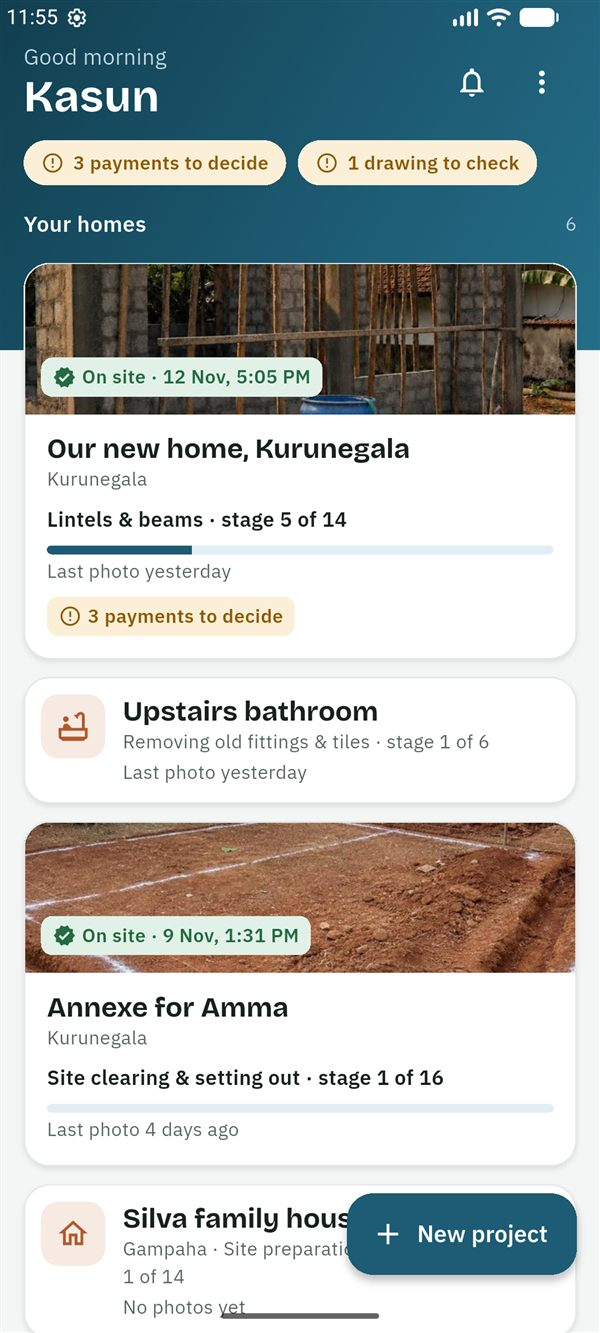
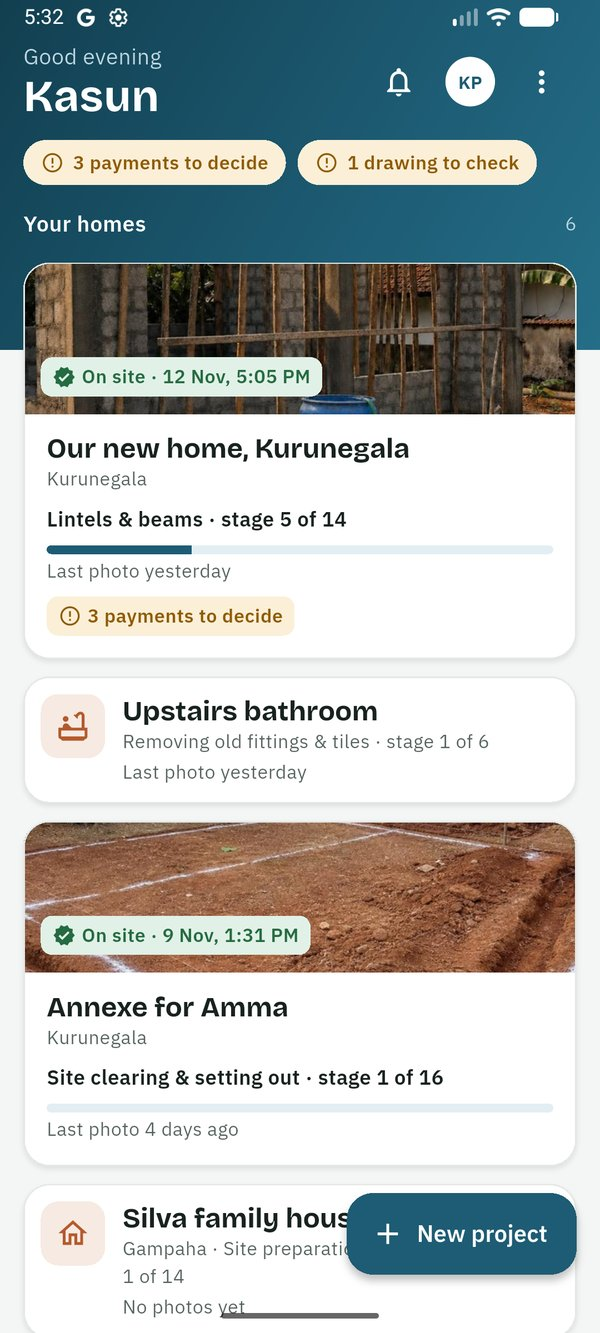
Publish site/ from adbbaad Guides: your photo on "About you", and where Settings opens now

diff --git a/guides/si/family-on-site.html b/guides/si/family-on-site.html
@@ -70,7 +70,7 @@
 <li>Google Play වෙතින් SiteProof ස්ථාපනය කරන්න. SiteProof පරීක්ෂා කරන කාලය තුළ, එය ස්ථාපනය කළ හැක්කේ ආරාධනා ලැබූ පරීක්ෂකයින්ට පමණි. දැනට එය Android දුරකථන සඳහා පමණි.</li>
 <li><strong>සිංහල</strong> හෝ <strong>English</strong> තෝරා, කෙටි හැඳින්වීම කියවන්න හෝ <strong>මඟ හරින්න</strong> ඔබන්න.</li>
 <li>ඇතුළු වන්න: ඔබේ ඊමේල් ලිපිනය ටයිප් කර <strong>කේතය යවන්න</strong> ඔබා, ඊමේල් එකේ ඇති ඉලක්කම් 6ක කේතය ටයිප් කර <strong>තහවුරු කරන්න</strong> ඔබන්න. නැතහොත් <strong>Google සමඟ ඉදිරියට යන්න</strong> ඔබන්න. මුරපදයක් නැත.</li>
-<li><strong>ඔබ ගැන</strong> යටතේ <strong>ඔබේ නම</strong> සහ <strong>ඔබ ජීවත් වන රට</strong> පුරවා <strong>ඉදිරියට</strong> ඔබන්න.</li>
+<li><strong>ඔබ ගැන</strong> යටතේ <strong>ඔබේ නම</strong> සහ <strong>ඔබ ජීවත් වන රට</strong> පුරවා <strong>ඉදිරියට</strong> ඔබන්න. කැමති නම්, පළමුව ඉහළින් ඇති <strong>ඡායාරූපයක් එක් කරන්න</strong> ඔබන්න: <strong>ඡායාරූපයක් ගන්න</strong> හෝ <strong>ඔබේ ඡායාරූපවලින් තෝරන්න</strong>, ඔබේ මුහුණ රවුම තුළට එන ලෙස එය ගෙනයන්න, විශාල කරන්න, ඉන්පසු <strong>මෙම ඡායාරූපය යොදන්න</strong> ඔබන්න. එය දකින්නේ ඔබේ ව්යාපෘතිවල සිටින අය පමණි; පසුව සැකසුම්වලින් එය වෙනස් කිරීමට හෝ ඉවත් කිරීමට හැක.</li>
 <li>මුල් තිරයේ ⋮ → <strong>කේතයකින් එක්වන්න</strong> ඔබන්න (තවම ව්යාපෘති නැත්නම් <strong>කේතයකින් එක්වන්න</strong> බොත්තම). කේතය ටයිප් කර <strong>කේතය පරීක්ෂා කරන්න</strong> ඔබන්න. ඔබට <strong>ස්ථානයේ සිටින පවුලේ සාමාජිකයා</strong> ලෙස ආරාධනා කළේ කවුදැයි යෙදුම පෙන්වයි. <strong>මෙම ව්යාපෘතියට එක්වන්න</strong> ඔබන්න.</li>
 </ol>
 <p>ව්යාපෘතිය ඔබේ මුල් තිරයේ <strong>ස්ථානයේ</strong> ලේබලය සමඟ ඇත; ඔබට වෙනත් භූමිකා වලින් ව්යාපෘති ද ඇත්නම් එය <strong>ඔබ අනුගමනය කරන</strong> යටතේ ඇත. එය <strong>අද</strong> ටැබයෙන් විවෘත වේ.</p>
@@ -183,7 +183,7 @@
 <li>හිමිකරු මෙන්ම, ඔබට අයවැය, සියලු බිල්පත් සහ සියලු ගෙවීම් ඉල්ලීම් පෙනේ. කොන්ත්රාත්කරුට පෙනෙන්නේ ඔහුගේම බිල්පත් සහ ඉල්ලීම් පමණි, කිසිවිටෙක අයවැය නොවේ. බලන්නන්ට කිසිවිටෙක මුදල් නොපෙනේ.</li>
 <li>හිමිකරුගේ සතියේ සාරාංශය සහ එක් එක් ගෙවීම් ඉල්ලීමේ පරීක්ෂාව ("තීරණය කිරීමට පෙර") හිමිකරුවන්ට පමණි.</li>
 <li>ඡායාරූප, ස්ථානය, අදියර, අදහස් සහ ලිපිගොනු කණ්ඩායමේ සැමට පෙනේ.</li>
-<li>ව්යාපෘතියේ අයට ඔබේ නම සහ භූමිකාව, සහ ඔබ දුරකථන අංකයෙන් ඇතුළු වූවා නම් එම අංකය පෙනේ, එවිට ඔවුන්ට ඔබට කතා කිරීමට හෝ WhatsApp පණිවිඩයක් යැවීමට හැක.</li>
+<li>ව්යාපෘතියේ අයට ඔබේ නම සහ භූමිකාව, ඔබ ඡායාරූපයක් එක් කළා නම් එය, සහ ඔබ දුරකථන අංකයෙන් ඇතුළු වූවා නම් එම අංකය පෙනේ, එවිට ඔවුන්ට ඔබට කතා කිරීමට හෝ WhatsApp පණිවිඩයක් යැවීමට හැක.</li>
 </ul>
 
 <h3>ඡායාරූප ලාංඡන</h3>
@@ -198,7 +198,7 @@
 <p>ඔබට SiteProof නොමිලේ; ගෙවන්නේ හිමිකරු පමණි. SiteProof පරීක්ෂා කරන කාලය තුළ, සෑම ව්යාපෘතියකටම Plus නොමිලේ. Plus සඳහා ගෙවීම ආරම්භ වූ පසු, මෙම මාර්ගෝපදේශයේ (Plus) ලෙස සලකුණු කළ දේවලට හිමිකරුගේ Plus සැලැස්ම අවශ්යයි; නොමිලේ සැලැස්මේදී බිල්පත් සහ ගෙවීම් ඉල්ලීම් වලට ද Plus අවශ්යයි.</p>
 
 <h3>සැකසුම්</h3>
-<p>භාෂාව, <strong>දැනුම්දීම් සැකසුම්</strong>, <strong>ඇඟිලි සලකුණ හෝ PIN මගින් අගුළු දමන්න</strong>, <strong>උදව්</strong>, <strong>මගේ දත්ත බාගන්න</strong> සහ <strong>මගේ ගිණුම මකන්න</strong> සඳහා මුල් තිරයේ ⋮ → <strong>සැකසුම්</strong> ඔබන්න.</p>
+<p>ඔබේ ඡායාරූපය සහ නම, භාෂාව, <strong>දැනුම්දීම් සැකසුම්</strong>, <strong>ඇඟිලි සලකුණ හෝ PIN මගින් අගුළු දමන්න</strong>, <strong>උදව්</strong>, <strong>මගේ දත්ත බාගන්න</strong> සහ <strong>මගේ ගිණුම මකන්න</strong> සඳහා මුල් තිරයේ ඉහළින් ඇති ඔබේ ඡායාරූපය හෝ මුල් අකුරු ඔබන්න (නැතහොත් ⋮ → <strong>සැකසුම්</strong>).</p>
 </div></main>
 <footer><div class="wrap">
   <span>© 2026 SiteProof, ශ්රී ලංකාව</span>

diff --git a/guides/si/designer.html b/guides/si/designer.html
@@ -69,7 +69,7 @@
 <li>Google Play වෙතින් SiteProof ස්ථාපනය කරන්න. SiteProof පරීක්ෂා කරන කාලය තුළ, එය ස්ථාපනය කළ හැක්කේ ආරාධනා ලැබූ පරීක්ෂකයින්ට පමණි. දැනට එය Android දුරකථන සඳහා පමණි.</li>
 <li><strong>සිංහල</strong> හෝ <strong>English</strong> තෝරා, කෙටි හැඳින්වීම කියවන්න හෝ <strong>මඟ හරින්න</strong> ඔබන්න.</li>
 <li>ඇතුළු වන්න: ඔබේ ඊමේල් ලිපිනය ටයිප් කර <strong>කේතය යවන්න</strong> ඔබා, ඊමේල් එකේ ඇති ඉලක්කම් 6ක කේතය ටයිප් කර <strong>තහවුරු කරන්න</strong> ඔබන්න. නැතහොත් <strong>Google සමඟ ඉදිරියට යන්න</strong> ඔබන්න. මුරපදයක් නැත.</li>
-<li><strong>ඔබ ගැන</strong> යටතේ <strong>ඔබේ නම</strong> සහ <strong>ඔබ ජීවත් වන රට</strong> පුරවා <strong>ඉදිරියට</strong> ඔබන්න.</li>
+<li><strong>ඔබ ගැන</strong> යටතේ <strong>ඔබේ නම</strong> සහ <strong>ඔබ ජීවත් වන රට</strong> පුරවා <strong>ඉදිරියට</strong> ඔබන්න. කැමති නම්, පළමුව ඉහළින් ඇති <strong>ඡායාරූපයක් එක් කරන්න</strong> ඔබන්න: <strong>ඡායාරූපයක් ගන්න</strong> හෝ <strong>ඔබේ ඡායාරූපවලින් තෝරන්න</strong>, ඔබේ මුහුණ රවුම තුළට එන ලෙස එය ගෙනයන්න, විශාල කරන්න, ඉන්පසු <strong>මෙම ඡායාරූපය යොදන්න</strong> ඔබන්න. එය දකින්නේ ඔබේ ව්යාපෘතිවල සිටින අය පමණි; පසුව සැකසුම්වලින් එය වෙනස් කිරීමට හෝ ඉවත් කිරීමට හැක.</li>
 <li>මුල් තිරයේ ⋮ → <strong>කේතයකින් එක්වන්න</strong> ඔබන්න. කේතය ටයිප් කර <strong>කේතය පරීක්ෂා කරන්න</strong> ඔබන්න. ඔබට <strong>නිර්මාණකරු</strong> ලෙස ආරාධනා කළේ කවුදැයි යෙදුම පෙන්වයි. <strong>මෙම ව්යාපෘතියට එක්වන්න</strong> ඔබන්න.</li>
 </ol>
 <p>ඔබේ ව්යාපෘති මුල් තිරයේ <strong>නිර්මාණකරු</strong> ලේබලය සමඟ ඇත; ඔබට වෙනත් භූමිකා වලින් ව්යාපෘති ද ඇත්නම් ඒවා <strong>ඔබේ වැඩ</strong> යටතේ ඇත. ව්යාපෘතියක් <strong>සාරාංශය</strong> ටැබයෙන් විවෘත වන අතර, එහි <strong>ඔබේ භූමිකාව</strong>, අදියර, කණ්ඩායම සහ මේ සතියේ යාවත්කාලීන පෙන්වයි. අයවැය බැලීමට ඉඩ නැත්නම්, එහි මුදල් නොපෙන්වයි.</p>
@@ -133,7 +133,7 @@
 <li>හිමිකරු <strong>නිර්මාණකරුට අයවැය පෙනේ</strong> සක්රිය කළහොත් පමණක් ඔබට අයවැය, බිල්පත් සහ ගෙවීම් කාලසටහන පෙනේ. නැතහොත් මුදල් ටැබයේ වැඩේ වෙනස්කම් පෙන්වන අතර, අනෙක් දේ මුදල් කළමනාකරණය කරන අයට පමණක් බව කියයි.</li>
 <li>ඔබට කිසිවිටෙක ගෙවීම් ඉල්ලීම් හෝ හිමිකරුගේ සතියේ සාරාංශය නොපෙනේ.</li>
 <li>ඔබේ සැලසුම්, ඔබේ අදියර පරීක්ෂා සහ ඔබේ යාවත්කාලීන කණ්ඩායමේ සැමට පෙනේ. බලන්නන්ට සැලසුම් පෙනේ, නමුත් ගිවිසුම නොපෙනේ.</li>
-<li>ව්යාපෘතියේ අයට ඔබේ නම සහ භූමිකාව, සහ ඔබ දුරකථන අංකයෙන් ඇතුළු වූවා නම් එම අංකය පෙනේ.</li>
+<li>ව්යාපෘතියේ අයට ඔබේ නම සහ භූමිකාව, ඔබ ඡායාරූපයක් එක් කළා නම් එය, සහ ඔබ දුරකථන අංකයෙන් ඇතුළු වූවා නම් එම අංකය පෙනේ.</li>
 </ul>
 
 <h3>ඡායාරූප ලාංඡන</h3>

diff --git a/guides/si/owner.html b/guides/si/owner.html
@@ -70,7 +70,7 @@
 <li><strong>සිංහල</strong> හෝ <strong>English</strong> තෝරන්න. පසුව සැකසුම් තුළ එය වෙනස් කළ හැක.</li>
 <li>කෙටි හැඳින්වීම කියවන්න, නැතහොත් <strong>මඟ හරින්න</strong> ඔබන්න.</li>
 <li>ඔබේ ඊමේල් ලිපිනය ටයිප් කර <strong>කේතය යවන්න</strong> ඔබන්න. ඊමේල් එකේ ඇති ඉලක්කම් 6ක කේතය ටයිප් කර <strong>තහවුරු කරන්න</strong> ඔබන්න. නැතහොත් <strong>Google සමඟ ඉදිරියට යන්න</strong> ඔබන්න. මුරපදයක් නැත.</li>
-<li><strong>ඔබ ගැන</strong> යටතේ <strong>ඔබේ නම</strong> සහ <strong>ඔබ ජීවත් වන රට</strong> පුරවා <strong>ඉදිරියට</strong> ඔබන්න.</li>
+<li><strong>ඔබ ගැන</strong> යටතේ <strong>ඔබේ නම</strong> සහ <strong>ඔබ ජීවත් වන රට</strong> පුරවා <strong>ඉදිරියට</strong> ඔබන්න. කැමති නම්, පළමුව ඉහළින් ඇති <strong>ඡායාරූපයක් එක් කරන්න</strong> ඔබන්න: <strong>ඡායාරූපයක් ගන්න</strong> හෝ <strong>ඔබේ ඡායාරූපවලින් තෝරන්න</strong>, ඔබේ මුහුණ රවුම තුළට එන ලෙස එය ගෙනයන්න, විශාල කරන්න, ඉන්පසු <strong>මෙම ඡායාරූපය යොදන්න</strong> ඔබන්න. එය දකින්නේ ඔබේ ව්යාපෘතිවල සිටින අය පමණි; පසුව සැකසුම්වලින් එය වෙනස් කිරීමට හෝ ඉවත් කිරීමට හැක.</li>
 </ol>
 
 <h3>ඔබේ ව්යාපෘතිය අරඹන්න</h3>
@@ -220,7 +220,7 @@
 
 <h2 id="settings">සැකසුම් සහ වාර්තා</h2>
 <ul>
-<li><strong>සැකසුම්:</strong> මුල් තිරයේ ⋮ → <strong>සැකසුම්</strong> ඔබන්න. එහි ඔබේ නම සහ රට, භාෂාව, <strong>දැනුම්දීම් සැකසුම්</strong>, <strong>ආරක්ෂාව</strong> (<strong>ඇඟිලි සලකුණ හෝ PIN මගින් අගුළු දමන්න</strong>), ඔබේ <strong>සැලැස්ම</strong>, <strong>උදව්</strong>, <strong>මගේ දත්ත බාගන්න</strong>, <strong>ඉවත් වන්න</strong> සහ <strong>මගේ ගිණුම මකන්න</strong> ඇත.</li>
+<li><strong>සැකසුම්:</strong> මුල් තිරයේ ඉහළින් ඇති ඔබේ ඡායාරූපය හෝ මුල් අකුරු ඔබන්න (නැතහොත් ⋮ → <strong>සැකසුම්</strong>). එහි ඔබේ ඡායාරූපය, නම සහ රට (වෙනස් කිරීමට <strong>සංස්කරණය</strong> ඔබන්න), භාෂාව, <strong>දැනුම්දීම් සැකසුම්</strong>, <strong>ආරක්ෂාව</strong> (<strong>ඇඟිලි සලකුණ හෝ PIN මගින් අගුළු දමන්න</strong>), ඔබේ <strong>සැලැස්ම</strong>, <strong>උදව්</strong>, <strong>මගේ දත්ත බාගන්න</strong>, <strong>ඉවත් වන්න</strong> සහ <strong>මගේ ගිණුම මකන්න</strong> ඇත.</li>
 <li><strong>දැනුම්දීම්:</strong> නව ඡායාරූප සහ බිල්පත් <strong>සිදුවන විටම</strong> ලැබේ, නැතහොත් <strong>දිනකට වරක්, වේලාව</strong> තෝරා ඔබ කැමති වේලාවකට දිනකට වරක් ලැබේ. ගෙවීම් ඉල්ලීම්, තීරණ සහ පිළිතුරු සැමවිටම වහාම ලැබේ. ඔබට මඟ හැරුණු ඒවා ද ඇතුළුව, සියලු දැනුම්දීම් සීනුව තුළ ඇත.</li>
 <li><strong>වාර්තා</strong> (Plus): ව්යාපෘතියේ ඉහළින් ඇති PDF අයිකනය (<strong>වාර්තාවක් සාදන්න</strong>) ඔබා, මේ මාසය, පසුගිය මාසය හෝ <strong>එක් අදියරක්, බැංකු ණයක් සඳහා</strong> තෝරන්න. WhatsApp හෝ ඊමේල් හරහා යැවීමට, Drive හි සුරැකීමට හෝ මුද්රණය කිරීමට බෙදාගැනීමේ තිරය විවෘත වේ.</li>
 </ul>

diff --git a/guides/si/contractor.html b/guides/si/contractor.html
@@ -73,7 +73,7 @@
 <li>Google Play වෙතින් SiteProof ස්ථාපනය කරන්න. SiteProof පරීක්ෂා කරන කාලය තුළ, එය ස්ථාපනය කළ හැක්කේ ආරාධනා ලැබූ පරීක්ෂකයින්ට පමණි. දැනට එය Android දුරකථන සඳහා පමණි.</li>
 <li><strong>සිංහල</strong> හෝ <strong>English</strong> තෝරා, කෙටි හැඳින්වීම කියවන්න හෝ <strong>මඟ හරින්න</strong> ඔබන්න.</li>
 <li>ඇතුළු වන්න: ඔබේ ඊමේල් ලිපිනය ටයිප් කර <strong>කේතය යවන්න</strong> ඔබා, ඊමේල් එකේ ඇති ඉලක්කම් 6ක කේතය ටයිප් කර <strong>තහවුරු කරන්න</strong> ඔබන්න. නැතහොත් <strong>Google සමඟ ඉදිරියට යන්න</strong> ඔබන්න. මුරපදයක් නැත.</li>
-<li><strong>ඔබ ගැන</strong> යටතේ <strong>ඔබේ නම</strong> සහ <strong>ඔබ ජීවත් වන රට</strong> පුරවා <strong>ඉදිරියට</strong> ඔබන්න.</li>
+<li><strong>ඔබ ගැන</strong> යටතේ <strong>ඔබේ නම</strong> සහ <strong>ඔබ ජීවත් වන රට</strong> පුරවා <strong>ඉදිරියට</strong> ඔබන්න. කැමති නම්, පළමුව ඉහළින් ඇති <strong>ඡායාරූපයක් එක් කරන්න</strong> ඔබන්න: <strong>ඡායාරූපයක් ගන්න</strong> හෝ <strong>ඔබේ ඡායාරූපවලින් තෝරන්න</strong>, ඔබේ මුහුණ රවුම තුළට එන ලෙස එය ගෙනයන්න, විශාල කරන්න, ඉන්පසු <strong>මෙම ඡායාරූපය යොදන්න</strong> ඔබන්න. එය දකින්නේ ඔබේ ව්යාපෘතිවල සිටින අය පමණි; පසුව සැකසුම්වලින් එය වෙනස් කිරීමට හෝ ඉවත් කිරීමට හැක.</li>
 <li>මුල් තිරයේ ⋮ → <strong>කේතයකින් එක්වන්න</strong> ඔබන්න. කේතය ටයිප් කර <strong>කේතය පරීක්ෂා කරන්න</strong> ඔබන්න. ඔබට <strong>කොන්ත්රාත්කරු</strong> ලෙස ආරාධනා කළේ කවුදැයි යෙදුම පෙන්වයි. <strong>මෙම ව්යාපෘතියට එක්වන්න</strong> ඔබන්න.</li>
 </ol>
 <p>ඔබේ ව්යාපෘති මුල් තිරයේ <strong>කොන්ත්රාත්කරු</strong> ලේබලය සමඟ ඇත; ඔබට වෙනත් භූමිකා වලින් ව්යාපෘති ද ඇත්නම් ඒවා <strong>ඔබේ වැඩ</strong> යටතේ ඇත. ඔබ වෙනුවෙන් යමක් රැඳී ඇති ව්යාපෘති මුලින්ම පෙන්වන අතර, සෑම කාඩ්පතකම ඊළඟ එකඟ වූ ගෙවීමේ නම පෙන්වයි. ව්යාපෘතියක් <strong>අද</strong> ටැබයෙන් විවෘත වේ.</p>
@@ -163,7 +163,7 @@
 <li>හිමිකරුට ඔබේ බිල්පත් (අයවැයට නැවත ගණන් නොගෙන), ඔබේ ඉල්ලීම් සහ ඔබේ ඡායාරූප ඒවායේ ලාංඡන සමඟ පෙනේ.</li>
 <li>එක් එක් ගෙවීම් ඉල්ලීමේ හිමිකරුගේ පරීක්ෂාව ("තීරණය කිරීමට පෙර") සහ සතියේ සාරාංශය හිමිකරුවන්ට පමණි.</li>
 <li>ඡායාරූප, ස්ථානය, අදියර, අදියර පරීක්ෂා, අදහස් සහ ලිපිගොනු කණ්ඩායමේ සැමට පෙනේ.</li>
-<li>ව්යාපෘතියේ අයට ඔබේ නම සහ භූමිකාව, සහ ඔබ දුරකථන අංකයෙන් ඇතුළු වූවා නම් එම අංකය පෙනේ.</li>
+<li>ව්යාපෘතියේ අයට ඔබේ නම සහ භූමිකාව, ඔබ ඡායාරූපයක් එක් කළා නම් එය, සහ ඔබ දුරකථන අංකයෙන් ඇතුළු වූවා නම් එම අංකය පෙනේ.</li>
 </ul>
 
 <h3>ඡායාරූප ලාංඡන</h3>

diff --git a/guides/si/viewer.html b/guides/si/viewer.html
@@ -53,7 +53,7 @@
 <li>Google Play වෙතින් SiteProof ස්ථාපනය කරන්න. SiteProof පරීක්ෂා කරන කාලය තුළ, එය ස්ථාපනය කළ හැක්කේ ආරාධනා ලැබූ පරීක්ෂකයින්ට පමණි. දැනට එය Android දුරකථන සඳහා පමණි.</li>
 <li><strong>සිංහල</strong> හෝ <strong>English</strong> තෝරා, කෙටි හැඳින්වීම කියවන්න හෝ <strong>මඟ හරින්න</strong> ඔබන්න.</li>
 <li>ඇතුළු වන්න: ඔබේ ඊමේල් ලිපිනය ටයිප් කර <strong>කේතය යවන්න</strong> ඔබා, ඊමේල් එකේ ඇති ඉලක්කම් 6ක කේතය ටයිප් කර <strong>තහවුරු කරන්න</strong> ඔබන්න. නැතහොත් <strong>Google සමඟ ඉදිරියට යන්න</strong> ඔබන්න. මුරපදයක් නැත.</li>
-<li><strong>ඔබ ගැන</strong> යටතේ <strong>ඔබේ නම</strong> සහ <strong>ඔබ ජීවත් වන රට</strong> පුරවා <strong>ඉදිරියට</strong> ඔබන්න.</li>
+<li><strong>ඔබ ගැන</strong> යටතේ <strong>ඔබේ නම</strong> සහ <strong>ඔබ ජීවත් වන රට</strong> පුරවා <strong>ඉදිරියට</strong> ඔබන්න. කැමති නම්, පළමුව ඉහළින් ඇති <strong>ඡායාරූපයක් එක් කරන්න</strong> ඔබන්න: <strong>ඡායාරූපයක් ගන්න</strong> හෝ <strong>ඔබේ ඡායාරූපවලින් තෝරන්න</strong>, ඔබේ මුහුණ රවුම තුළට එන ලෙස එය ගෙනයන්න, විශාල කරන්න, ඉන්පසු <strong>මෙම ඡායාරූපය යොදන්න</strong> ඔබන්න. එය දකින්නේ ඔබේ ව්යාපෘතිවල සිටින අය පමණි; පසුව සැකසුම්වලින් එය වෙනස් කිරීමට හෝ ඉවත් කිරීමට හැක.</li>
 <li>මුල් තිරයේ <strong>කේතයකින් එක්වන්න</strong> බොත්තම ඔබන්න (නැතහොත් ⋮ → <strong>කේතයකින් එක්වන්න</strong>). කේතය ටයිප් කර <strong>කේතය පරීක්ෂා කරන්න</strong> ඔබන්න. ඔබට <strong>බලන්නා</strong> ලෙස ආරාධනා කළේ කවුදැයි යෙදුම පෙන්වයි. <strong>මෙම ව්යාපෘතියට එක්වන්න</strong> ඔබන්න.</li>
 </ol>
 <p>ව්යාපෘතිය ඔබේ මුල් තිරයේ <strong>බලන්නා</strong> ලේබලය සමඟ ඇත; ඔබට වෙනත් භූමිකා වලින් ව්යාපෘති ද ඇත්නම් එය <strong>ඔබ අනුගමනය කරන</strong> යටතේ ඇත. එය <strong>සාරාංශය</strong> ටැබයෙන් විවෘත වේ.</p>
@@ -95,7 +95,7 @@
 <ul>
 <li>ඔබට කිසිවිටෙක මුදල් නොපෙනේ. අයවැය, බිල්පත් සහ ගෙවීම් හිමිකරුට, සම-හිමිකරුවන්ට සහ ස්ථානයේ සිටින පවුලේ සාමාජිකයාට පමණි.</li>
 <li>ඡායාරූප, ස්ථානය, අදියර සහ අදියර පරීක්ෂා, අදහස් සහ ලිපිගොනු ඔබ ඇතුළු කණ්ඩායමේ සැමට පෙනේ. බලන්නන්ට ගිවිසුම නොපෙනේ.</li>
-<li>ව්යාපෘතියේ අයට ඔබේ නම සහ භූමිකාව, සහ ඔබ දුරකථන අංකයෙන් ඇතුළු වූවා නම් එම අංකය පෙනේ.</li>
+<li>ව්යාපෘතියේ අයට ඔබේ නම සහ භූමිකාව, ඔබ ඡායාරූපයක් එක් කළා නම් එය, සහ ඔබ දුරකථන අංකයෙන් ඇතුළු වූවා නම් එම අංකය පෙනේ.</li>
 <li>හිමිකරුට ඔබව හිමිකරු කළ හැක (උදාහරණයක් ලෙස දෙමාපියෙකු වෙනුවෙන් ව්යාපෘතිය භාර ගැනීමට). ඔබට වහාම දැනුම් දෙයි.</li>
 </ul>
 

diff --git a/privacy.html b/privacy.html
@@ -16,7 +16,7 @@
 </div></header>
 <main><div class="wrap">
 <h1>Privacy policy</h1>
-<p class="meta">Effective 10 November 2026 · Last updated 12 November 2026</p>
+<p class="meta">Effective 10 November 2026 · Last updated 13 November 2026</p>
 
 <h2>Who we are</h2>
 <p>SiteProof, a business being registered in Sri Lanka, runs the SiteProof app and is responsible for the personal data described here ("we", "us"). SiteProof helps families who are building a house in Sri Lanka keep a verified record of the work: site photos, bills, payment approvals and live checks. Often the owner lives abroad and a family member or contractor is on site.</p>
@@ -27,7 +27,7 @@
 <p>We collect what you type or photograph in the app, plus a few details from your phone that make site photos trustworthy.</p>
 <div class="table-wrap"><table>
 <tr><th>What</th><th>Details</th><th>When</th></tr>
-<tr><td>Account</td><td>Name, phone number or email address, the country you live in, language, time zone</td><td>When you sign up or change your settings</td></tr>
+<tr><td>Account</td><td>Name, phone number or email address, the country you live in, language, time zone, and a profile photo of yourself if you add one</td><td>When you sign up or change your settings</td></tr>
 <tr><td>Notification settings</td><td>Instant notifications or a daily summary, and its hour</td><td>When you choose them</td></tr>
 <tr><td>Projects</td><td>Project name, district, an address note, the site location pin and its radius, floors and floor area, budgets, stages</td><td>When the owner or the family member on site sets them</td></tr>
 <tr><td>Site photos</td><td>The photo; the time on your phone and the time our server received it; GPS position and its accuracy; whether the phone reported a simulated location; distance from the site pin; whether it was taken offline; a fingerprint of the file to spot repeats</td><td>When you post a site photo</td></tr>
@@ -63,7 +63,7 @@
 <p>Only the members of a project see what is in it. Within a project:</p>
 <ul>
 <li>Everyone in the team sees the photos, the site location, stages, stage checks, comments and documents, and hears and reads the voice notes.</li>
-<li>Everyone in the team sees each other's name and role. If you signed in with your phone number, the people in your projects see that number too, so they can call you or message you on WhatsApp from the app.</li>
+<li>Everyone in the team sees each other's name and role, and the profile photo of those who added one. Nobody outside your projects sees your photo, and someone who leaves a project no longer does. If you signed in with your phone number, the people in your projects see that number too, so they can call you or message you on WhatsApp from the app.</li>
 <li>Budgets are hidden from contractors and viewers; designers see them only if the owner allows it.</li>
 <li>The payment schedule from the contract is seen by the people who see the budget, and by the contractor.</li>
 <li>Changes to the work, with their cost, are seen by everyone in the team except viewers.</li>
@@ -89,6 +89,7 @@
 <div class="table-wrap"><table>
 <tr><th>Data</th><th>How long we keep it</th></tr>
 <tr><td>Your account and settings</td><td>Until you delete your account</td></tr>
+<tr><td>Your profile photo</td><td>Until you change or remove it, or delete your account: the old photo is deleted then</td></tr>
 <tr><td>A project's photos, bills, payments, changes to the work, comments and documents</td><td>As long as the project exists. A project only you are in is deleted with your account</td></tr>
 <tr><td>What you added to other people's projects</td><td>Kept after you delete your account, shown as "Former member", because it is the other family's record of their house</td></tr>
 <tr><td>Voice notes, and what was said in them and its translation</td><td>As long as the project exists, like the photos</td></tr>

diff --git a/guides/family-on-site.html b/guides/family-on-site.html
@@ -66,7 +66,7 @@
 <li>Install SiteProof from Google Play. While SiteProof is being tested, only invited testers can install it. It is for Android phones for now.</li>
 <li>Choose <strong>සිංහල</strong> or <strong>English</strong>, then read the short welcome or tap <strong>Skip</strong>.</li>
 <li>Sign in: type your email address and tap <strong>Send code</strong>, then type the 6-digit code from the email and tap <strong>Verify</strong>. Or tap <strong>Continue with Google</strong>. There is no password.</li>
-<li>Under <strong>About you</strong>, fill in <strong>Your name</strong> and the <strong>Country you live in</strong>, then tap <strong>Continue</strong>.</li>
+<li>Under <strong>About you</strong>, fill in <strong>Your name</strong> and the <strong>Country you live in</strong>, then tap <strong>Continue</strong>. If you like, first tap <strong>Add a photo</strong> at the top: <strong>Take a photo</strong> or <strong>Choose from your photos</strong>, move and zoom it so your face is in the circle, and tap <strong>Use photo</strong>. Only the people in your projects see it, and you can change or remove it later in Settings.</li>
 <li>On the home screen, tap ⋮ → <strong>Join with a code</strong> (or the <strong>Join with a code</strong> button when you have no projects yet). Type the code and tap <strong>Check the code</strong>. The app shows who invited you, as <strong>Family member on site</strong>. Tap <strong>Join this project</strong>.</li>
 </ol>
 <p>The project is on your home screen with an <strong>On site</strong> chip, under <strong>Following</strong> if you also have projects in other roles. It opens on <strong>Today</strong>.</p>
@@ -179,7 +179,7 @@
 <li>You see the budget, every bill and every payment request, like the owner. The contractor sees only their own bills and requests, never the budget. Viewers never see money.</li>
 <li>The owner's weekly summary and the check on each payment request ("Before you decide") are for the owners only.</li>
 <li>Everyone in the team sees the photos, the site location, the stages, comments and documents.</li>
-<li>People in the project see your name and role, and your phone number if you signed in with one, so they can call you or message you on WhatsApp.</li>
+<li>People in the project see your name and role, your photo if you added one, and your phone number if you signed in with one, so they can call you or message you on WhatsApp.</li>
 </ul>
 
 <h3>The photo badges</h3>
@@ -194,7 +194,7 @@
 <p>You use SiteProof free; only the owner pays. While SiteProof is being tested, every project has Plus free. Features marked (Plus) in this guide need the owner's Plus plan once plans start; on Free, bills and payment requests need Plus too.</p>
 
 <h3>Settings</h3>
-<p>On the home screen, tap ⋮ → <strong>Settings</strong> for the language, <strong>Notification settings</strong>, <strong>Lock with fingerprint or PIN</strong>, <strong>Help</strong>, <strong>Download my data</strong> and <strong>Delete my account</strong>.</p>
+<p>On the home screen, tap your photo or initials at the top (or ⋮ → <strong>Settings</strong>) for your photo and name, the language, <strong>Notification settings</strong>, <strong>Lock with fingerprint or PIN</strong>, <strong>Help</strong>, <strong>Download my data</strong> and <strong>Delete my account</strong>.</p>
 </div></main>
 <footer><div class="wrap">
   <span>© 2026 SiteProof, Sri Lanka</span>

diff --git a/guides/si/co-owner.html b/guides/si/co-owner.html
@@ -67,7 +67,7 @@
 <li>Google Play වෙතින් SiteProof ස්ථාපනය කරන්න. SiteProof පරීක්ෂා කරන කාලය තුළ, එය ස්ථාපනය කළ හැක්කේ ආරාධනා ලැබූ පරීක්ෂකයින්ට පමණි. දැනට එය Android දුරකථන සඳහා පමණි.</li>
 <li><strong>සිංහල</strong> හෝ <strong>English</strong> තෝරා, කෙටි හැඳින්වීම කියවන්න හෝ <strong>මඟ හරින්න</strong> ඔබන්න.</li>
 <li>ඇතුළු වන්න: ඔබේ ඊමේල් ලිපිනය ටයිප් කර <strong>කේතය යවන්න</strong> ඔබා, ඊමේල් එකේ ඇති ඉලක්කම් 6ක කේතය ටයිප් කර <strong>තහවුරු කරන්න</strong> ඔබන්න. නැතහොත් <strong>Google සමඟ ඉදිරියට යන්න</strong> ඔබන්න. මුරපදයක් නැත.</li>
-<li><strong>ඔබ ගැන</strong> යටතේ <strong>ඔබේ නම</strong> සහ <strong>ඔබ ජීවත් වන රට</strong> පුරවා <strong>ඉදිරියට</strong> ඔබන්න.</li>
+<li><strong>ඔබ ගැන</strong> යටතේ <strong>ඔබේ නම</strong> සහ <strong>ඔබ ජීවත් වන රට</strong> පුරවා <strong>ඉදිරියට</strong> ඔබන්න. කැමති නම්, පළමුව ඉහළින් ඇති <strong>ඡායාරූපයක් එක් කරන්න</strong> ඔබන්න: <strong>ඡායාරූපයක් ගන්න</strong> හෝ <strong>ඔබේ ඡායාරූපවලින් තෝරන්න</strong>, ඔබේ මුහුණ රවුම තුළට එන ලෙස එය ගෙනයන්න, විශාල කරන්න, ඉන්පසු <strong>මෙම ඡායාරූපය යොදන්න</strong> ඔබන්න. එය දකින්නේ ඔබේ ව්යාපෘතිවල සිටින අය පමණි; පසුව සැකසුම්වලින් එය වෙනස් කිරීමට හෝ ඉවත් කිරීමට හැක.</li>
 <li>මුල් තිරයේ ⋮ → <strong>කේතයකින් එක්වන්න</strong> ඔබන්න. කේතය ටයිප් කර <strong>කේතය පරීක්ෂා කරන්න</strong> ඔබන්න. ඔබට ආරාධනා කළේ කවුද සහ ඔබේ භූමිකාව යෙදුම පෙන්වයි. <strong>මෙම ව්යාපෘතියට එක්වන්න</strong> ඔබන්න.</li>
 </ol>
 <p>ව්යාපෘතිය ඔබේ මුල් තිරයේ, එහි කාඩ්පතේ "සම-හිමිකරු" ලෙස පෙන්වයි; ඔබට වෙනත් භූමිකා වලින් ව්යාපෘති ද ඇත්නම් එය <strong>ඔබේ නිවාස</strong> යටතේ ඇත. එය <strong>සාරාංශය</strong> ටැබයෙන් විවෘත වේ.</p>

diff --git a/guides/owner.html b/guides/owner.html
@@ -66,7 +66,7 @@
 <li>Choose <strong>සිංහල</strong> or <strong>English</strong>. You can change it later in Settings.</li>
 <li>Read the short welcome, or tap <strong>Skip</strong>.</li>
 <li>Type your email address and tap <strong>Send code</strong>. Type the 6-digit code from the email and tap <strong>Verify</strong>. Or tap <strong>Continue with Google</strong>. There is no password.</li>
-<li>Under <strong>About you</strong>, fill in <strong>Your name</strong> and the <strong>Country you live in</strong>, then tap <strong>Continue</strong>.</li>
+<li>Under <strong>About you</strong>, fill in <strong>Your name</strong> and the <strong>Country you live in</strong>, then tap <strong>Continue</strong>. If you like, first tap <strong>Add a photo</strong> at the top: <strong>Take a photo</strong> or <strong>Choose from your photos</strong>, move and zoom it so your face is in the circle, and tap <strong>Use photo</strong>. Only the people in your projects see it, and you can change or remove it later in Settings.</li>
 </ol>
 
 <h3>Start your project</h3>
@@ -216,7 +216,7 @@
 
 <h2 id="settings">Settings and reports</h2>
 <ul>
-<li><strong>Settings:</strong> on the home screen, tap ⋮ → <strong>Settings</strong>. There you find your name and country, the language, <strong>Notification settings</strong>, <strong>Security</strong> (<strong>Lock with fingerprint or PIN</strong>), your <strong>Plan</strong>, <strong>Help</strong>, <strong>Download my data</strong>, <strong>Sign out</strong> and <strong>Delete my account</strong>.</li>
+<li><strong>Settings:</strong> on the home screen, tap your photo or initials at the top (or ⋮ → <strong>Settings</strong>). There you find your photo, name and country (tap <strong>Edit</strong> to change them), the language, <strong>Notification settings</strong>, <strong>Security</strong> (<strong>Lock with fingerprint or PIN</strong>), your <strong>Plan</strong>, <strong>Help</strong>, <strong>Download my data</strong>, <strong>Sign out</strong> and <strong>Delete my account</strong>.</li>
 <li><strong>Notifications:</strong> new photos and bills come <strong>As they happen</strong>, or <strong>Once a day, at</strong> a time you choose. Payment requests, decisions and replies always come straight away. The bell lists every notification, including ones you missed.</li>
 <li><strong>Reports</strong> (Plus): tap the PDF icon at the top of the project (<strong>Make a report</strong>), then this month, last month or <strong>One stage, for a bank loan</strong>. It opens the share sheet, to send on WhatsApp or email, save to Drive or print.</li>
 </ul>

diff --git a/guides/designer.html b/guides/designer.html
@@ -65,7 +65,7 @@
 <li>Install SiteProof from Google Play. While SiteProof is being tested, only invited testers can install it. It is for Android phones for now.</li>
 <li>Choose <strong>සිංහල</strong> or <strong>English</strong>, then read the short welcome or tap <strong>Skip</strong>.</li>
 <li>Sign in: type your email address and tap <strong>Send code</strong>, then type the 6-digit code from the email and tap <strong>Verify</strong>. Or tap <strong>Continue with Google</strong>. There is no password.</li>
-<li>Under <strong>About you</strong>, fill in <strong>Your name</strong> and the <strong>Country you live in</strong>, then tap <strong>Continue</strong>.</li>
+<li>Under <strong>About you</strong>, fill in <strong>Your name</strong> and the <strong>Country you live in</strong>, then tap <strong>Continue</strong>. If you like, first tap <strong>Add a photo</strong> at the top: <strong>Take a photo</strong> or <strong>Choose from your photos</strong>, move and zoom it so your face is in the circle, and tap <strong>Use photo</strong>. Only the people in your projects see it, and you can change or remove it later in Settings.</li>
 <li>On the home screen, tap ⋮ → <strong>Join with a code</strong>. Type the code and tap <strong>Check the code</strong>. The app shows who invited you, as <strong>Designer</strong>. Tap <strong>Join this project</strong>.</li>
 </ol>
 <p>Your projects are on the home screen with a <strong>Designer</strong> chip, under <strong>Your work</strong> if you also have projects in other roles. A project opens on the <strong>Overview</strong>, which shows <strong>Your role</strong>, the stage, the team and the updates this week. Without budget access, it shows no money.</p>
@@ -129,7 +129,7 @@
 <li>You see the budget, the bills and the payment schedule only if the owner turns on <strong>Designer can see the budget</strong>. Otherwise Money shows the changes to the work and says the rest is only for the people who manage the money.</li>
 <li>You never see payment requests or the owner's weekly summary.</li>
 <li>Everyone in the team sees your drawings, your stage checks and your updates. Viewers see the drawings but not the contract.</li>
-<li>People in the project see your name and role, and your phone number if you signed in with one.</li>
+<li>People in the project see your name and role, your photo if you added one, and your phone number if you signed in with one.</li>
 </ul>
 
 <h3>The photo badges</h3>

diff --git a/guides/contractor.html b/guides/contractor.html
@@ -69,7 +69,7 @@
 <li>Install SiteProof from Google Play. While SiteProof is being tested, only invited testers can install it. It is for Android phones for now.</li>
 <li>Choose <strong>සිංහල</strong> or <strong>English</strong>, then read the short welcome or tap <strong>Skip</strong>.</li>
 <li>Sign in: type your email address and tap <strong>Send code</strong>, then type the 6-digit code from the email and tap <strong>Verify</strong>. Or tap <strong>Continue with Google</strong>. There is no password.</li>
-<li>Under <strong>About you</strong>, fill in <strong>Your name</strong> and the <strong>Country you live in</strong>, then tap <strong>Continue</strong>.</li>
+<li>Under <strong>About you</strong>, fill in <strong>Your name</strong> and the <strong>Country you live in</strong>, then tap <strong>Continue</strong>. If you like, first tap <strong>Add a photo</strong> at the top: <strong>Take a photo</strong> or <strong>Choose from your photos</strong>, move and zoom it so your face is in the circle, and tap <strong>Use photo</strong>. Only the people in your projects see it, and you can change or remove it later in Settings.</li>
 <li>On the home screen, tap ⋮ → <strong>Join with a code</strong>. Type the code and tap <strong>Check the code</strong>. The app shows who invited you, as <strong>Contractor</strong>. Tap <strong>Join this project</strong>.</li>
 </ol>
 <p>Your projects are on the home screen with a <strong>Contractor</strong> chip, under <strong>Your work</strong> if you also have projects in other roles. Projects with something waiting for you come first, and each card shows the next agreed payment by name. A project opens on <strong>Today</strong>.</p>
@@ -159,7 +159,7 @@
 <li>The owner sees your bills (not counted again in the budget), your requests and your photos with their badges.</li>
 <li>The owner's check on each payment request ("Before you decide") and the weekly summary are for the owners only.</li>
 <li>Everyone in the team sees the photos, the site location, the stages, stage checks, comments and documents.</li>
-<li>People in the project see your name and role, and your phone number if you signed in with one.</li>
+<li>People in the project see your name and role, your photo if you added one, and your phone number if you signed in with one.</li>
 </ul>
 
 <h3>The photo badges</h3>

diff --git a/guides/viewer.html b/guides/viewer.html
@@ -49,7 +49,7 @@
 <li>Install SiteProof from Google Play. While SiteProof is being tested, only invited testers can install it. It is for Android phones for now.</li>
 <li>Choose <strong>සිංහල</strong> or <strong>English</strong>, then read the short welcome or tap <strong>Skip</strong>.</li>
 <li>Sign in: type your email address and tap <strong>Send code</strong>, then type the 6-digit code from the email and tap <strong>Verify</strong>. Or tap <strong>Continue with Google</strong>. There is no password.</li>
-<li>Under <strong>About you</strong>, fill in <strong>Your name</strong> and the <strong>Country you live in</strong>, then tap <strong>Continue</strong>.</li>
+<li>Under <strong>About you</strong>, fill in <strong>Your name</strong> and the <strong>Country you live in</strong>, then tap <strong>Continue</strong>. If you like, first tap <strong>Add a photo</strong> at the top: <strong>Take a photo</strong> or <strong>Choose from your photos</strong>, move and zoom it so your face is in the circle, and tap <strong>Use photo</strong>. Only the people in your projects see it, and you can change or remove it later in Settings.</li>
 <li>On the home screen, tap the <strong>Join with a code</strong> button (or ⋮ → <strong>Join with a code</strong>). Type the code and tap <strong>Check the code</strong>. The app shows who invited you, as <strong>Viewer</strong>. Tap <strong>Join this project</strong>.</li>
 </ol>
 <p>The project is on your home screen with a <strong>Viewer</strong> chip, under <strong>Following</strong> if you also have projects in other roles. It opens on the <strong>Overview</strong>.</p>
@@ -91,7 +91,7 @@
 <ul>
 <li>You never see money. The budget, bills and payments are for the owner, co-owners and the family member on site.</li>
 <li>Everyone in the team, you included, sees the photos, the site location, the stages and stage checks, the comments and the documents. Viewers don't see the contract.</li>
-<li>People in the project see your name and role, and your phone number if you signed in with one.</li>
+<li>People in the project see your name and role, your photo if you added one, and your phone number if you signed in with one.</li>
 <li>The owner can make you the owner (for example to take over the project for a parent). You are told straight away.</li>
 </ul>
 
